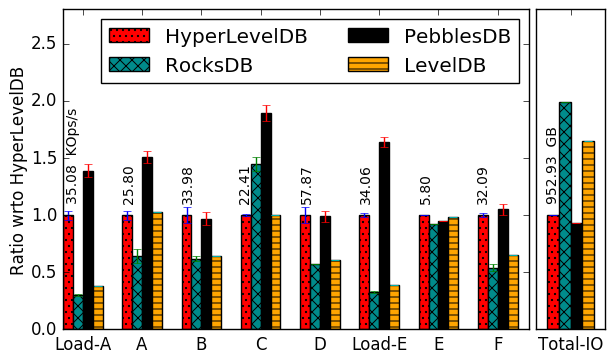
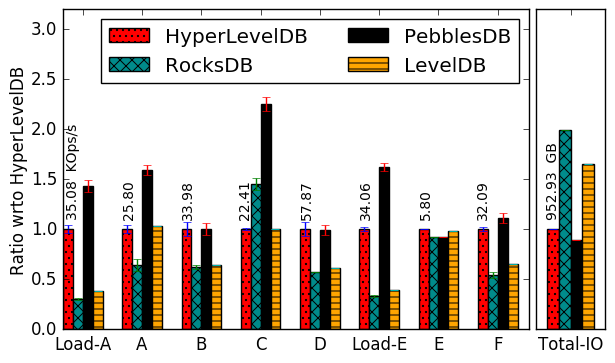
Update ycsb results- disable read compact

diff --git a/db/db_impl.cc b/db/db_impl.cc
@@ -1645,7 +1645,9 @@ Status DBImpl::Get(const ReadOptions& options,
   if (have_stat_update && current->UpdateStats(stats)) {
     bg_compaction_cv_.Signal();
   }
-  ++straight_reads_;
+  //Disable compaction on continous read(Get) requests. COmpaction is triggered
+  //only for contiguous seeks. 
+  //++straight_reads_;
   mem->Unref();
   if (imm != NULL) {
 	 imm->Unref();
